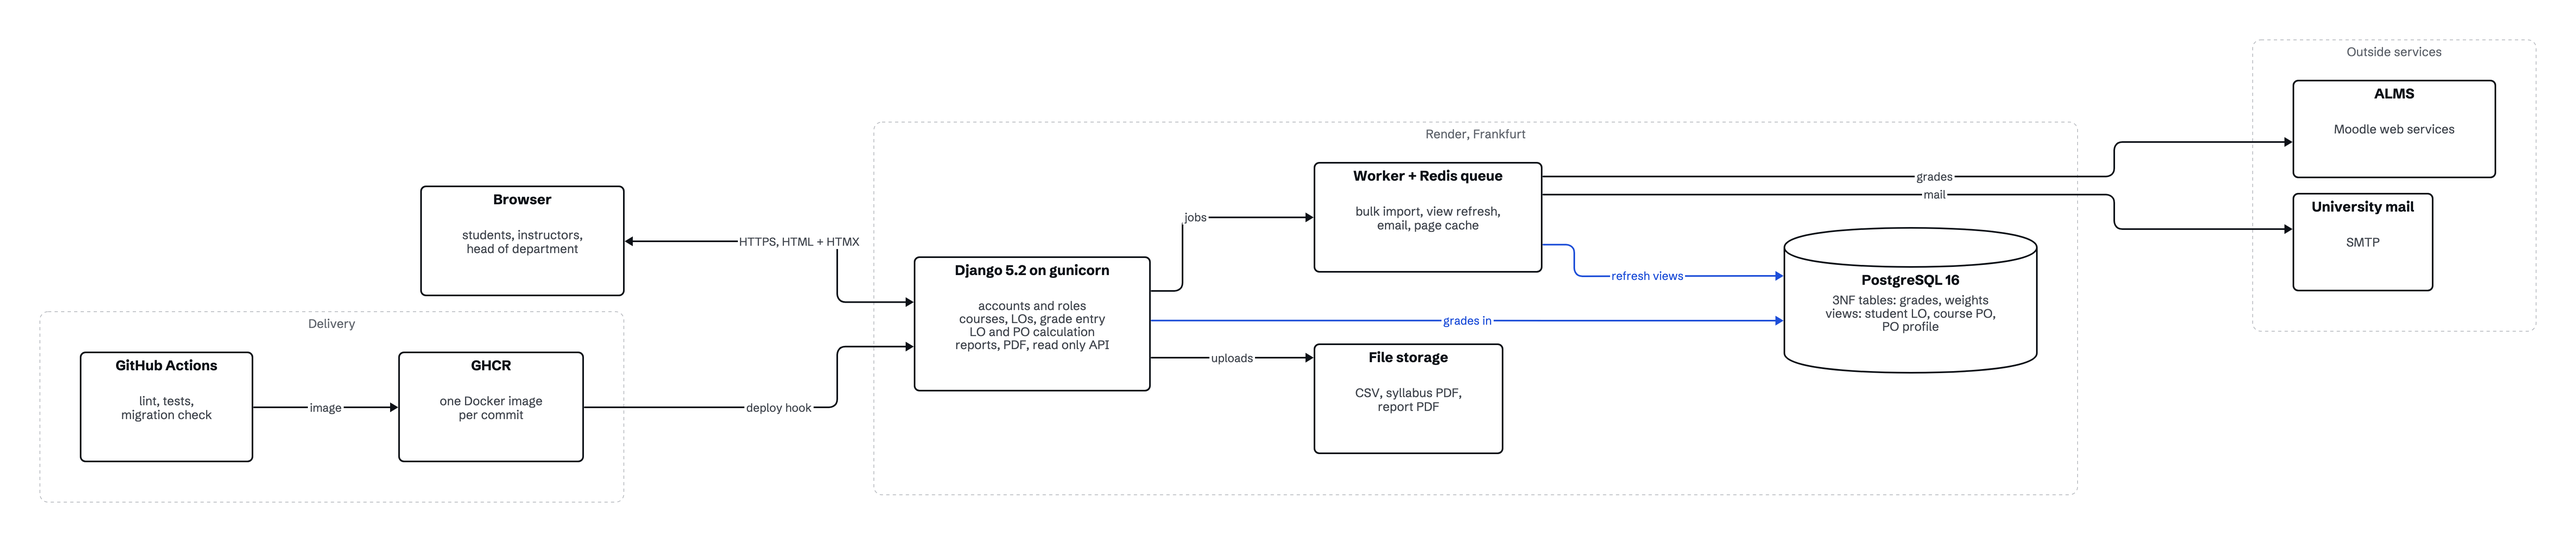
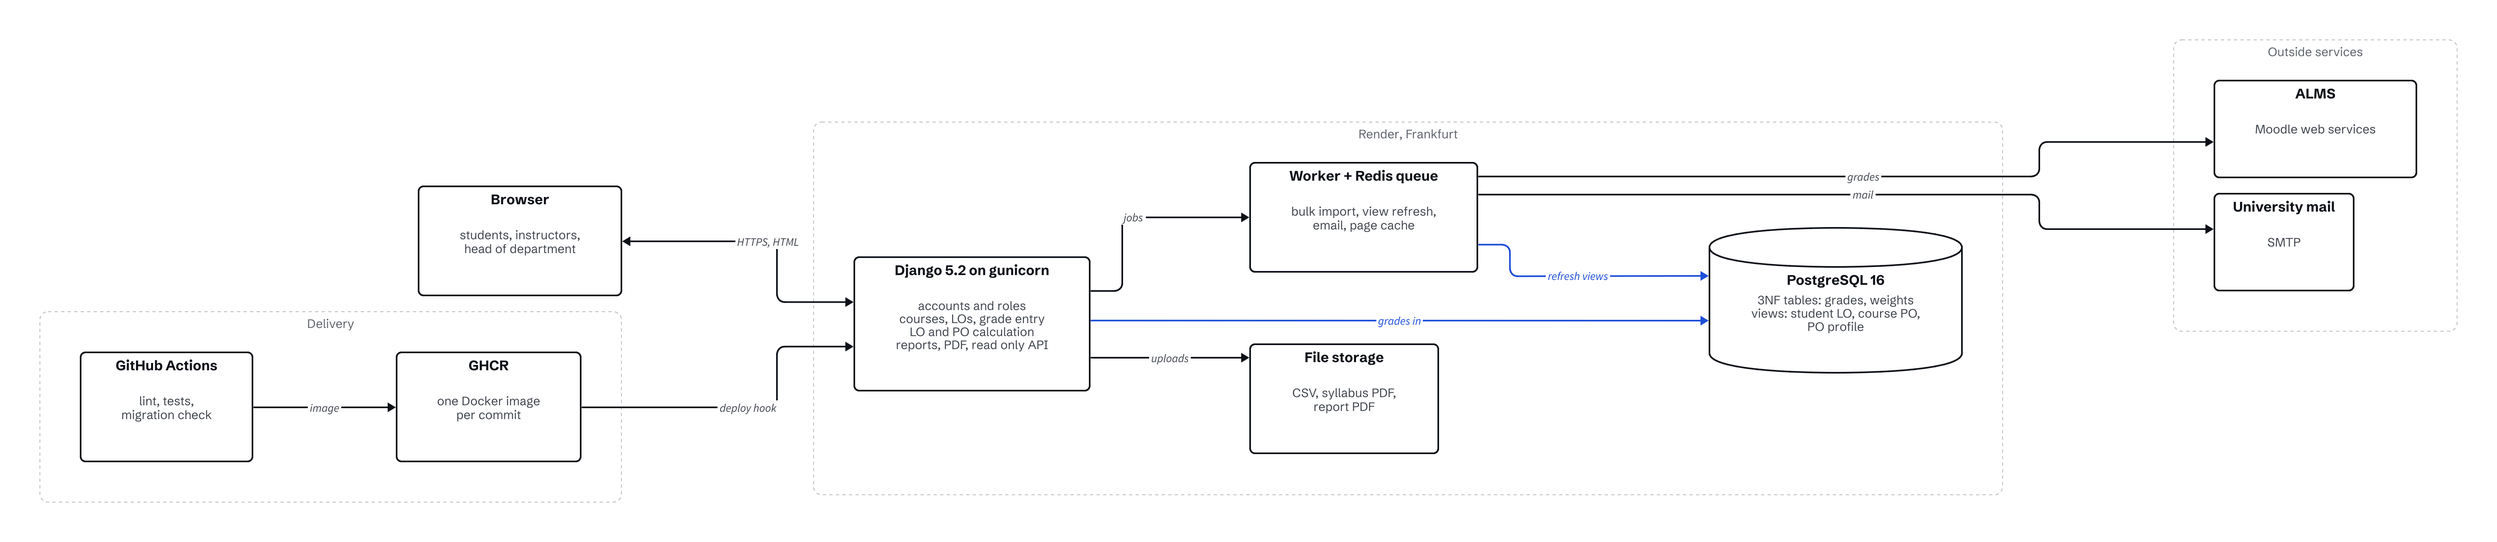
Close Sprint 2, plan Sprint 3 (#88)

diff --git a/docs/sprints.md b/docs/sprints.md
@@ -43,25 +43,25 @@ Extra work, no points: decision notes on outcome weights ([#62](https://github.c
 - Fake data is reproducible with `--seed`, covers 11 POs and is tested (18 tests).
 - Carry over to Sprint 2: #6, class diagram PR #65, Getting Real notes PR #59.
 
-## Sprint 2 (2026-11-05 – 2026-11-12) — Calculation, views. CSE 321 checkpoint Nov 12
+## Sprint 2 (2026-11-05 to 2026-11-12): Calculation, views, mid semester presentation
 
 | | points |
 |---|---|
 | Planned | 34 |
-| Done (as of 2026-11-11) | 29 |
+| Done | 34 |
 
 | # | Issue | Assignee | Points | Status |
 |---|---|---|---|---|
-| [#6](https://github.com/rmz-oz/aculator/issues/6) | Project board and sprint routine | ranayilmazz | 2 | carried over from Sprint 1, closing now |
+| [#6](https://github.com/rmz-oz/aculator/issues/6) | Project board and sprint routine | ranayilmazz | 2 | done, PR [#76](https://github.com/rmz-oz/aculator/pull/76) |
 | [#8](https://github.com/rmz-oz/aculator/issues/8) | LO and PO calculation | esinsarialtin | 5 | done, PR [#71](https://github.com/rmz-oz/aculator/pull/71) |
 | [#9](https://github.com/rmz-oz/aculator/issues/9) | Materialized views for student profiles | sarginyaren | 8 | done, PR [#74](https://github.com/rmz-oz/aculator/pull/74) |
 | [#10](https://github.com/rmz-oz/aculator/issues/10) | Roles and permissions | rmz-oz | 5 | done, PR [#68](https://github.com/rmz-oz/aculator/pull/68) |
 | [#11](https://github.com/rmz-oz/aculator/issues/11) | Course report page | ranayilmazz | 5 | done, PR [#75](https://github.com/rmz-oz/aculator/pull/75) |
-| [#12](https://github.com/rmz-oz/aculator/issues/12) | CSE 321 checkpoint presentation and report | rmz-oz | 3 | PR [#73](https://github.com/rmz-oz/aculator/pull/73) open, review pending |
-| [#25](https://github.com/rmz-oz/aculator/issues/25) | PO components | esinsarialtin | 3 | done |
+| [#12](https://github.com/rmz-oz/aculator/issues/12) | CSE 321 checkpoint presentation and report | rmz-oz | 3 | done, PR [#73](https://github.com/rmz-oz/aculator/pull/73) |
+| [#25](https://github.com/rmz-oz/aculator/issues/25) | PO components | esinsarialtin | 3 | done, PR [#78](https://github.com/rmz-oz/aculator/pull/78) |
 | [#31](https://github.com/rmz-oz/aculator/issues/31) | Class diagram | rmz-oz | 1 | done, PR [#65](https://github.com/rmz-oz/aculator/pull/65) |
 | [#34](https://github.com/rmz-oz/aculator/issues/34) | Getting Real notes | rmz-oz | 1 | done, PR [#59](https://github.com/rmz-oz/aculator/pull/59) |
-| [#60](https://github.com/rmz-oz/aculator/issues/60) | Deploy check can pass on the old version | rmz-oz | 1 | done |
+| [#60](https://github.com/rmz-oz/aculator/issues/60) | Deploy check can pass on the old version | rmz-oz | 1 | done in Sprint 1, PR [#61](https://github.com/rmz-oz/aculator/pull/61) |
 
 ### Planning (2026-11-05)
 
@@ -70,4 +70,36 @@ Extra work, no points: decision notes on outcome weights ([#62](https://github.c
 
 ### Review (2026-11-12)
 
-<!-- TODO: final points once #73 lands, what carries over to Sprint 3. -->
+- 34 of 34 points done. #60 (1 point) was finished in Sprint 1 but only labelled for Sprint 2, so real Sprint 2 work is 33. Velocity so far: 20, 34. Average 27.
+- Calculation, materialized views, roles, PO components and the course report run on Render from `main`.
+- Mid semester slides and report presented in CSE 321 on Nov 12. The same slides cover CSE 311, which has no presentation date yet (#16).
+- Found while preparing the slides, opened for Sprint 4: the course report does not read the materialized views (#79), changing a course's ECTS changes old reports (#80), `docker compose` starts only the database (#81). The free Render database expires on Dec 3 (#82).
+- Student profile (#14) was in the Sprint 2 goal but not in the sprint, it is in Sprint 3.
+- Nothing carries over.
+
+`main` tagged `sprint-2` when this lands.
+
+## Sprint 3 (2026-11-12 to 2026-11-19): Grade entry, student profile, login
+
+| | points |
+|---|---|
+| Planned | 29 |
+
+| # | Issue | Assignee | Points |
+|---|---|---|---|
+| [#13](https://github.com/rmz-oz/aculator/issues/13) | Bulk grade import from CSV | esinsarialtin | 5 |
+| [#14](https://github.com/rmz-oz/aculator/issues/14) | Student PO profile page | ranayilmazz | 5 |
+| [#15](https://github.com/rmz-oz/aculator/issues/15) | Index and table size measurements | sarginyaren | 3 |
+| [#41](https://github.com/rmz-oz/aculator/issues/41) | How a score was computed | rmz-oz | 5 |
+| [#42](https://github.com/rmz-oz/aculator/issues/42) | Not enough evidence state | esinsarialtin | 2 |
+| [#43](https://github.com/rmz-oz/aculator/issues/43) | Property tests for the calculation | esinsarialtin | 2 |
+| [#44](https://github.com/rmz-oz/aculator/issues/44) | Playwright tests and screenshots in CI | rmz-oz | 3 |
+| [#72](https://github.com/rmz-oz/aculator/issues/72) | Missing grade vs absent | rmz-oz | 2 |
+| [#77](https://github.com/rmz-oz/aculator/issues/77) | Login page for instructors and students | ranayilmazz | 2 |
+
+### Planning (2026-11-12)
+
+- Goal: an instructor logs in and enters grades (CSV, optical reader lists), a student sees their own PO profile, absent and not yet entered grades are told apart.
+- 29 points, close to the average of 27.
+- #16 (CSE 311 presentation) left the sprint: no presentation on Nov 17, it comes back when there is a new date.
+- #17 and #18 were 8 points each and are split into sub-issues (#83, #84 and #85 to #87).

diff --git a/docs/getting-real.md b/docs/getting-real.md
@@ -7,11 +7,11 @@ Everyone adds at least two of their own (#34).
 
 | Chapter | What we did | Where | Who |
 |---|---|---|---|
-| 7. Fix Time and Budget, Flex Scope | Dates are fixed (12 and 17 Nov, 29 Dec) and sprints are one week; scope moves instead. The animated character has no sprint and only happens if there is time. | milestones, #40 | Ramiz |
+| 7. Fix Time and Budget, Flex Scope | Dates are fixed (12 Nov mid semester, 29 Dec demo) and sprints are one week; scope moves instead. The animated character has no sprint and only happens if there is time. | milestones, #40 | Ramiz |
 | 8. Have an Enemy | We read the closest existing project (a Django CO-PO tool, IJERT 2025) and did the opposite where it breaks: it rounds between steps and ties LOs to the course. | decisions 0002, 0003 | Ramiz |
 | 20. Make Opinionated Software | One way to weight outcomes (1 to 5 levels, ECTS across courses) instead of a settings page with every option. | decision 0004 | Ramiz |
 | 29. Race to Running Software | The first pull request was a running Django app on PostgreSQL with CI; deployment came in the first sprint, before any feature. | #23, #30 | Ramiz |
-| 10. Less Mass | Server rendered pages with HTMX instead of a separate React app: one language, one repo, one deploy. | decision 0006 | Ramiz |
+| 10. Less Mass | Server rendered Django templates instead of a separate React app: one language, one repo, one deploy. | grading/templates | Ramiz |
 | 13. Embrace Constraints | Four people and eight weeks: features were split into a plain, a recommended and an ambitious set, and we picked the middle one. | #41 to #57 | Ramiz |
 | 60. Don't Do Dead Documents | No functional spec. Short decision notes, and the architecture diagram is a D2 file that is rendered again when the system changes. | docs/decisions, docs/architecture.d2 | Ramiz |
 | 38. Meetings Are Toxic | Design questions go to GitHub Discussions and are closed with an answer; meetings are 30 minutes and only for planning. | Discussion #21 | Ramiz |
